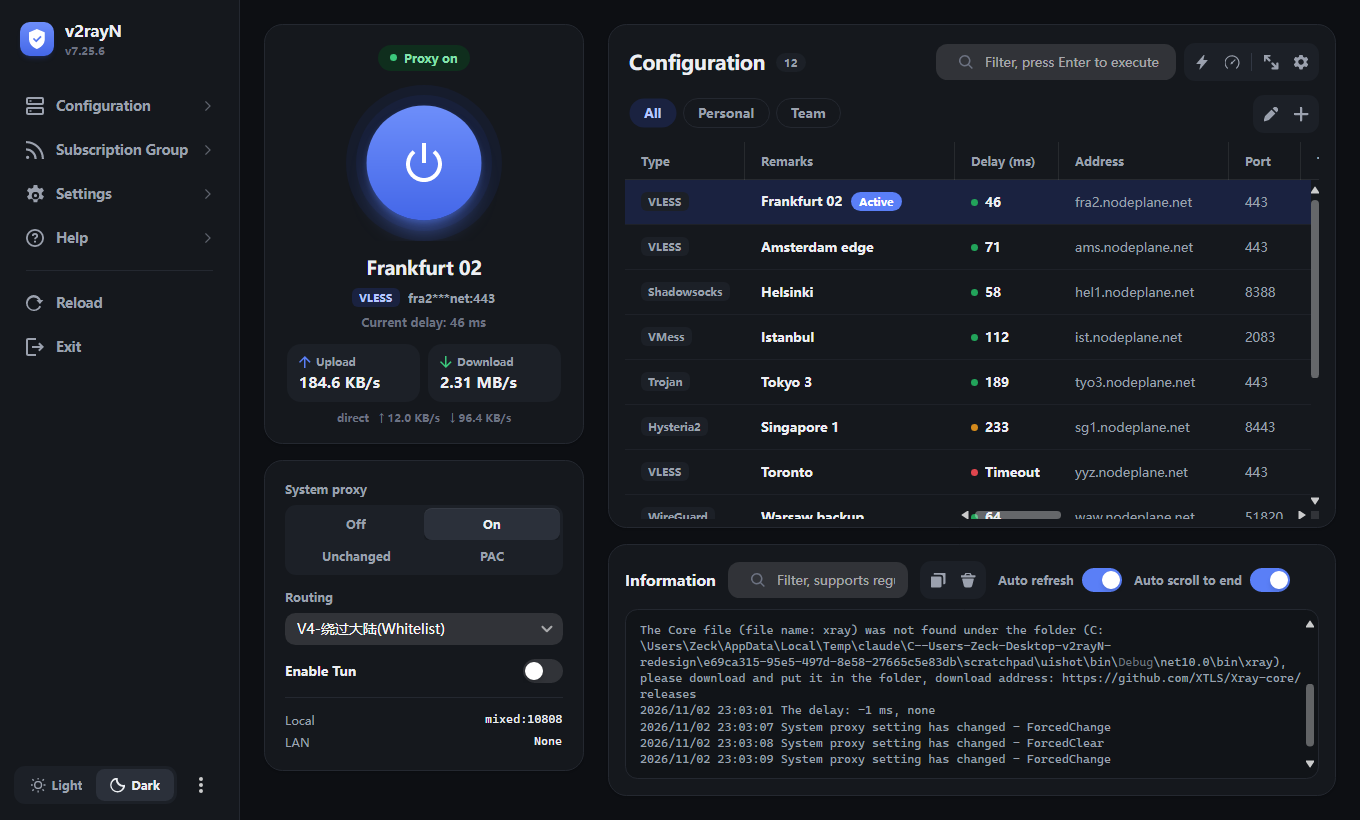
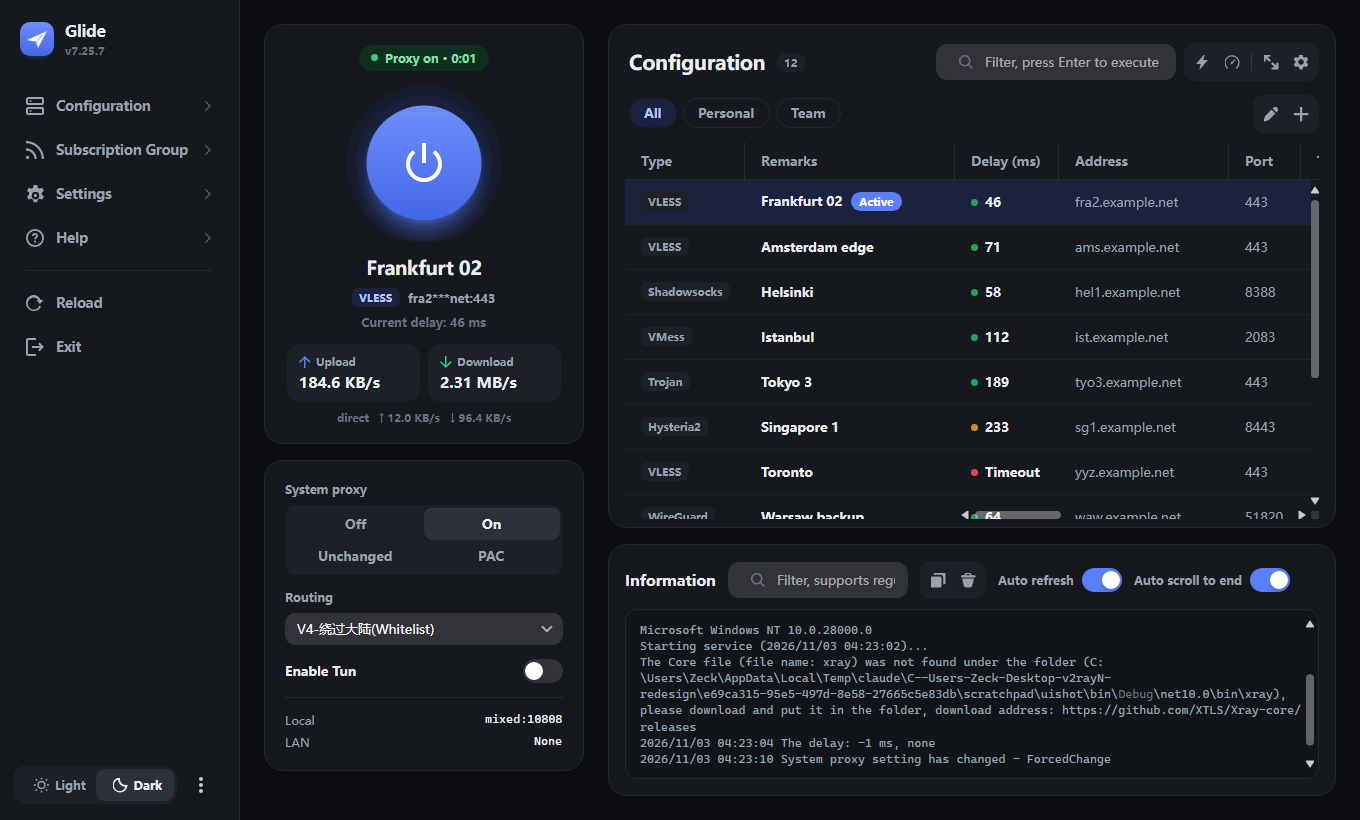
Rename to Glide; first-run screen, session timer, motion and polish
- Users now see "Glide" in the title bar, sidebar, tray, dialogs, the
  exe's file info and the app's own texts. Internal identity stays
  "v2rayN" (exe name, guiConfigs, User-Agent, backup folder, release
  asset names) so subscriptions, updates and existing installs keep
  working.
- Empty server list shows a first-run card with "Import share links
  from clipboard" and "Add subscription" (English and Persian).
- Status pill shows a live session timer while the proxy is on.
- Cards glide in on startup; status pill color animates; inverted
  rounded tooltips; rounded inputs, context menus and notifications.
- Tests for the settings import (181 passing).
- README uses the Glide logo and refreshed screenshots.

diff --git a/v2rayN/ServiceLib.Tests/Handler/ConfigImportHandlerTests.cs b/v2rayN/ServiceLib.Tests/Handler/ConfigImportHandlerTests.cs
@@ -1,0 +1,100 @@
+namespace ServiceLib.Tests.Handler;
+
+public class ConfigImportHandlerTests
+{
+    private static string NewTempDir()
+    {
+        var dir = Path.Combine(Path.GetTempPath(), $"glide-import-{Guid.NewGuid():N}");
+        Directory.CreateDirectory(dir);
+        return dir;
+    }
+
+    private static string CreateInstall(string root)
+    {
+        var configDir = Path.Combine(root, "guiConfigs");
+        Directory.CreateDirectory(configDir);
+        File.WriteAllText(Path.Combine(configDir, Global.ConfigFileName), "{}");
+        return configDir;
+    }
+
+    [Test]
+    public async Task GetConfigDirFromFolder_InstallFolder_ReturnsItsGuiConfigs()
+    {
+        var root = NewTempDir();
+        try
+        {
+            var configDir = CreateInstall(root);
+
+            var result = ConfigImportHandler.GetConfigDirFromFolder(root);
+
+            await result.Should().BeEqualTo(configDir);
+        }
+        finally
+        {
+            Directory.Delete(root, true);
+        }
+    }
+
+    [Test]
+    public async Task GetConfigDirFromFolder_GuiConfigsFolderItself_ReturnsIt()
+    {
+        var root = NewTempDir();
+        try
+        {
+            var configDir = CreateInstall(root);
+
+            var result = ConfigImportHandler.GetConfigDirFromFolder(configDir + Path.DirectorySeparatorChar);
+
+            await result.Should().BeEqualTo(configDir);
+        }
+        finally
+        {
+            Directory.Delete(root, true);
+        }
+    }
+
+    [Test]
+    public async Task GetConfigDirFromFolder_FolderWithoutSettings_ReturnsNull()
+    {
+        var root = NewTempDir();
+        try
+        {
+            Directory.CreateDirectory(Path.Combine(root, "guiConfigs"));
+
+            var result = ConfigImportHandler.GetConfigDirFromFolder(root);
+
+            await (result is null).Should().BeTrue();
+        }
+        finally
+        {
+            Directory.Delete(root, true);
+        }
+    }
+
+    [Test]
+    public async Task GetConfigDirFromFolder_MissingOrEmptyPath_ReturnsNull()
+    {
+        await (ConfigImportHandler.GetConfigDirFromFolder(null) is null).Should().BeTrue();
+        await (ConfigImportHandler.GetConfigDirFromFolder(string.Empty) is null).Should().BeTrue();
+        await (ConfigImportHandler.GetConfigDirFromFolder(Path.Combine(Path.GetTempPath(), $"missing-{Guid.NewGuid():N}")) is null).Should().BeTrue();
+    }
+
+    [Test]
+    public async Task StageImport_SourceWithoutSettings_FailsWithoutLeavingStagedFiles()
+    {
+        var root = NewTempDir();
+        try
+        {
+            var staging = Path.Combine(Utils.StartupPath(), "guiConfigs.import");
+
+            var staged = ConfigImportHandler.StageImport(root);
+
+            await staged.Should().BeFalse();
+            await Directory.Exists(staging).Should().BeFalse();
+        }
+        finally
+        {
+            Directory.Delete(root, true);
+        }
+    }
+}

diff --git a/v2rayN/v2rayN.Desktop/Views/ProfilesView.axaml.cs b/v2rayN/v2rayN.Desktop/Views/ProfilesView.axaml.cs
@@ -19,6 +19,7 @@ public partial class ProfilesView : ReactiveUserControl<ProfilesViewModel>
         menuSelectAll.Click += menuSelectAll_Click;
         btnAutofitColumnWidth.Click += BtnAutofitColumnWidth_Click;
         txtServerFilter.KeyDown += TxtServerFilter_KeyDown;
+        btnEmptyPaste.Click += (_, _) => AppEvents.AddServerViaClipboardRequested.Publish();
         lstProfiles.KeyDown += LstProfiles_KeyDown;
         lstProfiles.SelectionChanged += lstProfiles_SelectionChanged;
         lstProfiles.DoubleTapped += LstProfiles_DoubleTapped;
@@ -43,6 +44,19 @@ public partial class ProfilesView : ReactiveUserControl<ProfilesViewModel>
             this.Bind(ViewModel, vm => vm.SelectedSub, v => v.lstGroup.SelectedItem).DisposeWith(disposables);
             this.Bind(ViewModel, vm => vm.ServerFilter, v => v.txtServerFilter.Text).DisposeWith(disposables);
             this.BindCommand(ViewModel, vm => vm.AddSubCmd, v => v.btnAddSub).DisposeWith(disposables);
+            this.BindCommand(ViewModel, vm => vm.AddSubCmd, v => v.btnEmptyAddSub).DisposeWith(disposables);
+
+            // Empty list with no filter typed: show the first-run card instead of a blank table.
+            // This view and its view model live as long as the app, so the handler is added once.
+            if (!_emptyStateHooked)
+            {
+                _emptyStateHooked = true;
+                ViewModel.ProfileItems.CollectionChanged += (_, _) => Dispatcher.UIThread.Post(UpdateEmptyState);
+            }
+            this.WhenAnyValue(v => v.ViewModel.ServerFilter)
+                .ObserveOn(RxSchedulers.MainThreadScheduler)
+                .Subscribe(_ => UpdateEmptyState())
+                .DisposeWith(disposables);
             this.BindCommand(ViewModel, vm => vm.EditSubCmd, v => v.btnEditSub).DisposeWith(disposables);
             this.BindCommand(ViewModel, vm => vm.EditSubCmd, v => v.menuSubEdit).DisposeWith(disposables);
             this.BindCommand(ViewModel, vm => vm.AddSubCmd, v => v.menuSubAdd).DisposeWith(disposables);
@@ -171,6 +185,16 @@ public partial class ProfilesView : ReactiveUserControl<ProfilesViewModel>
         });
 
         RestoreUI();
+    }
+
+    private bool _emptyStateHooked;
+
+    private void UpdateEmptyState()
+    {
+        if (ViewModel is { } vm)
+        {
+            spEmptyServers.IsVisible = vm.ProfileItems.Count == 0 && vm.ServerFilter.IsNullOrEmpty();
+        }
     }
 
     private async void LstProfiles_Sorting(object? sender, DataGridColumnEventArgs e)

diff --git a/v2rayN/v2rayN.Desktop/Views/StatusBarView.axaml.cs b/v2rayN/v2rayN.Desktop/Views/StatusBarView.axaml.cs
@@ -22,6 +22,7 @@ public partial class StatusBarView : ReactiveUserControl<StatusBarViewModel>
 
         spRunningServer.Tapped += TxtRunningServerDisplay_Tapped;
         btnPower.Click += BtnPower_Click;
+        _sessionTimer.Tick += (_, _) => UpdateSessionTime();
 
         this.WhenActivated(disposables =>
         {
@@ -138,6 +139,35 @@ public partial class StatusBarView : ReactiveUserControl<StatusBarViewModel>
             (int)ESysProxyType.Unchanged => "System proxy unchanged",
             _ => "Proxy off",
         };
+
+        // While the proxy is on, the pill also shows for how long; the timer only runs in that state.
+        _powerStateLabel = txtPowerState.Text;
+        if (isOn && !_sessionTimer.IsEnabled)
+        {
+            _sessionStart = DateTime.Now;
+            _sessionTimer.Start();
+        }
+        else if (!isOn)
+        {
+            _sessionTimer.Stop();
+        }
+        UpdateSessionTime();
+    }
+
+    private readonly DispatcherTimer _sessionTimer = new() { Interval = TimeSpan.FromSeconds(1) };
+    private DateTime _sessionStart;
+    private string _powerStateLabel = string.Empty;
+
+    private void UpdateSessionTime()
+    {
+        if (!_sessionTimer.IsEnabled)
+        {
+            txtPowerState.Text = _powerStateLabel;
+            return;
+        }
+        var elapsed = DateTime.Now - _sessionStart;
+        var time = elapsed.TotalHours >= 1 ? elapsed.ToString(@"h\:mm\:ss") : elapsed.ToString(@"m\:ss");
+        txtPowerState.Text = $"{_powerStateLabel} · {time}";
     }
 
     private void UpdateRunningServer(string? summary)

diff --git a/v2rayN/ServiceLib/Resx/ResUI.Designer.cs b/v2rayN/ServiceLib/Resx/ResUI.Designer.cs
@@ -5525,5 +5525,32 @@ namespace ServiceLib.Resx {
                 return ResourceManager.GetString("TbNotNow", resourceCulture);
             }
         }
+        
+        /// <summary>
+        ///   No servers yet
+        /// </summary>
+        public static string TipNoServersTitle {
+            get {
+                return ResourceManager.GetString("TipNoServersTitle", resourceCulture);
+            }
+        }
+        
+        /// <summary>
+        ///   Paste a share link you copied, or add a subscription from your provider to get started.
+        /// </summary>
+        public static string TipNoServersBody {
+            get {
+                return ResourceManager.GetString("TipNoServersBody", resourceCulture);
+            }
+        }
+        
+        /// <summary>
+        ///   Add subscription
+        /// </summary>
+        public static string TbAddSubscription {
+            get {
+                return ResourceManager.GetString("TbAddSubscription", resourceCulture);
+            }
+        }
     }
 }

diff --git a/v2rayN/ServiceLib/Global.cs b/v2rayN/ServiceLib/Global.cs
@@ -5,6 +5,12 @@ public class Global
     public const string AppName = "v2rayN";
 
     /// <summary>
+    /// Name shown to users (title bar, tray, dialogs). AppName stays "v2rayN" because it is part of
+    /// the User-Agent, backup folder and file names that subscriptions, updates and installs rely on.
+    /// </summary>
+    public const string AppDisplayName = "Glide";
+
+    /// <summary>
     /// GitHub repository ("owner/name") whose releases this build updates itself from.
     /// Empty turns the app's self-update off (core and geo-file updates still work), so it can
     /// never replace this build with the upstream v2rayN release.

diff --git a/v2rayN/v2rayN.Desktop/Views/MainWindow.axaml.cs b/v2rayN/v2rayN.Desktop/Views/MainWindow.axaml.cs
@@ -39,6 +39,7 @@ public partial class MainWindow : WindowBase<MainWindowViewModel>
         UpdateThemeToggle();
 
         txtVersion.Text = $"v{Utils.GetVersionInfo()}";
+        Opened += (_, _) => DispatcherTimer.RunOnce(() => gridContent.Classes.Remove("entering"), TimeSpan.FromMilliseconds(60));
         SizeChanged += (_, e) => UpdateResponsiveLayout(e.NewSize.Width);
 
         this.WhenActivated(disposables =>

diff --git a/v2rayN/ServiceLib/Common/Utils.cs b/v2rayN/ServiceLib/Common/Utils.cs
@@ -926,7 +926,7 @@ public class Utils
         try
         {
             return blFull
-                ? $"{Global.AppName} - V{GetVersionInfo()} - {RuntimeInformation.ProcessArchitecture}"
+                ? $"{Global.AppDisplayName} - V{GetVersionInfo()} - {RuntimeInformation.ProcessArchitecture}"
                 : $"{Global.AppName}/{GetVersionInfo()}";
         }
         catch (Exception ex)

diff --git a/v2rayN/ServiceLib/ViewModels/StatusBarViewModel.cs b/v2rayN/ServiceLib/ViewModels/StatusBarViewModel.cs
@@ -280,7 +280,7 @@ public partial class StatusBarViewModel : MyReactiveObject
 
     private string GetRunningServerToolTipText(string serverInfo)
     {
-        return Utils.IsLinux() ? Global.AppName : serverInfo;
+        return Utils.IsLinux() ? Global.AppDisplayName : serverInfo;
     }
 
     private async Task RefreshServersMenu()

diff --git a/v2rayN/v2rayN.Desktop/Common/UI.cs b/v2rayN/v2rayN.Desktop/Common/UI.cs
@@ -6,7 +6,7 @@ namespace v2rayN.Desktop.Common;
 
 internal class UI
 {
-    private static readonly string caption = Global.AppName;
+    private static readonly string caption = Global.AppDisplayName;
 
     public static async Task<ButtonResult> ShowYesNo(string msg)
     {

diff --git a/README.md b/README.md
@@ -1,8 +1,11 @@
 <div align="center">
 
-# v2rayN Redesign
+<picture>
+  <source media="(prefers-color-scheme: dark)" srcset="docs/brand/glide-logo-dark.png">
+  <img alt="Glide" src="docs/brand/glide-logo-light.png" width="320">
+</picture>
 
-**The v2rayN you know, with a clean, modern interface.**
+**A redesigned v2rayN: the client you know, with a clean, modern interface.**
 Same engine (Xray, sing-box, mihomo), same configs and subscriptions, a much nicer app to live with.
 
 [![Release](https://img.shields.io/github/v/release/BlackkCore/v2rayN-Redesign?logo=github&label=Release&color=3157E6)](https://github.com/BlackkCore/v2rayN-Redesign/releases/latest)
@@ -17,7 +20,7 @@ Same engine (Xray, sing-box, mihomo), same configs and subscriptions, a much nic
 
 <picture>
   <source media="(prefers-color-scheme: dark)" srcset="docs/screenshots/main-dark.png">
-  <img alt="v2rayN Redesign main window" src="docs/screenshots/main-light.png" width="900">
+  <img alt="Glide main window" src="docs/screenshots/main-light.png" width="900">
 </picture>
 
 </div>
@@ -25,6 +28,12 @@ Same engine (Xray, sing-box, mihomo), same configs and subscriptions, a much nic
 ---
 
 ## Features
+
+**A first-run screen that helps you start**
+No servers yet? Glide shows how to paste a share link or add a subscription, right where the list will be.
+
+**See how long you have been connected**
+The status pill shows a live session timer while the proxy is on.
 
 **A connection screen you can read at a glance**
 One big power button turns the system proxy on and off. The current server, its protocol and live upload/download speeds sit right underneath.
